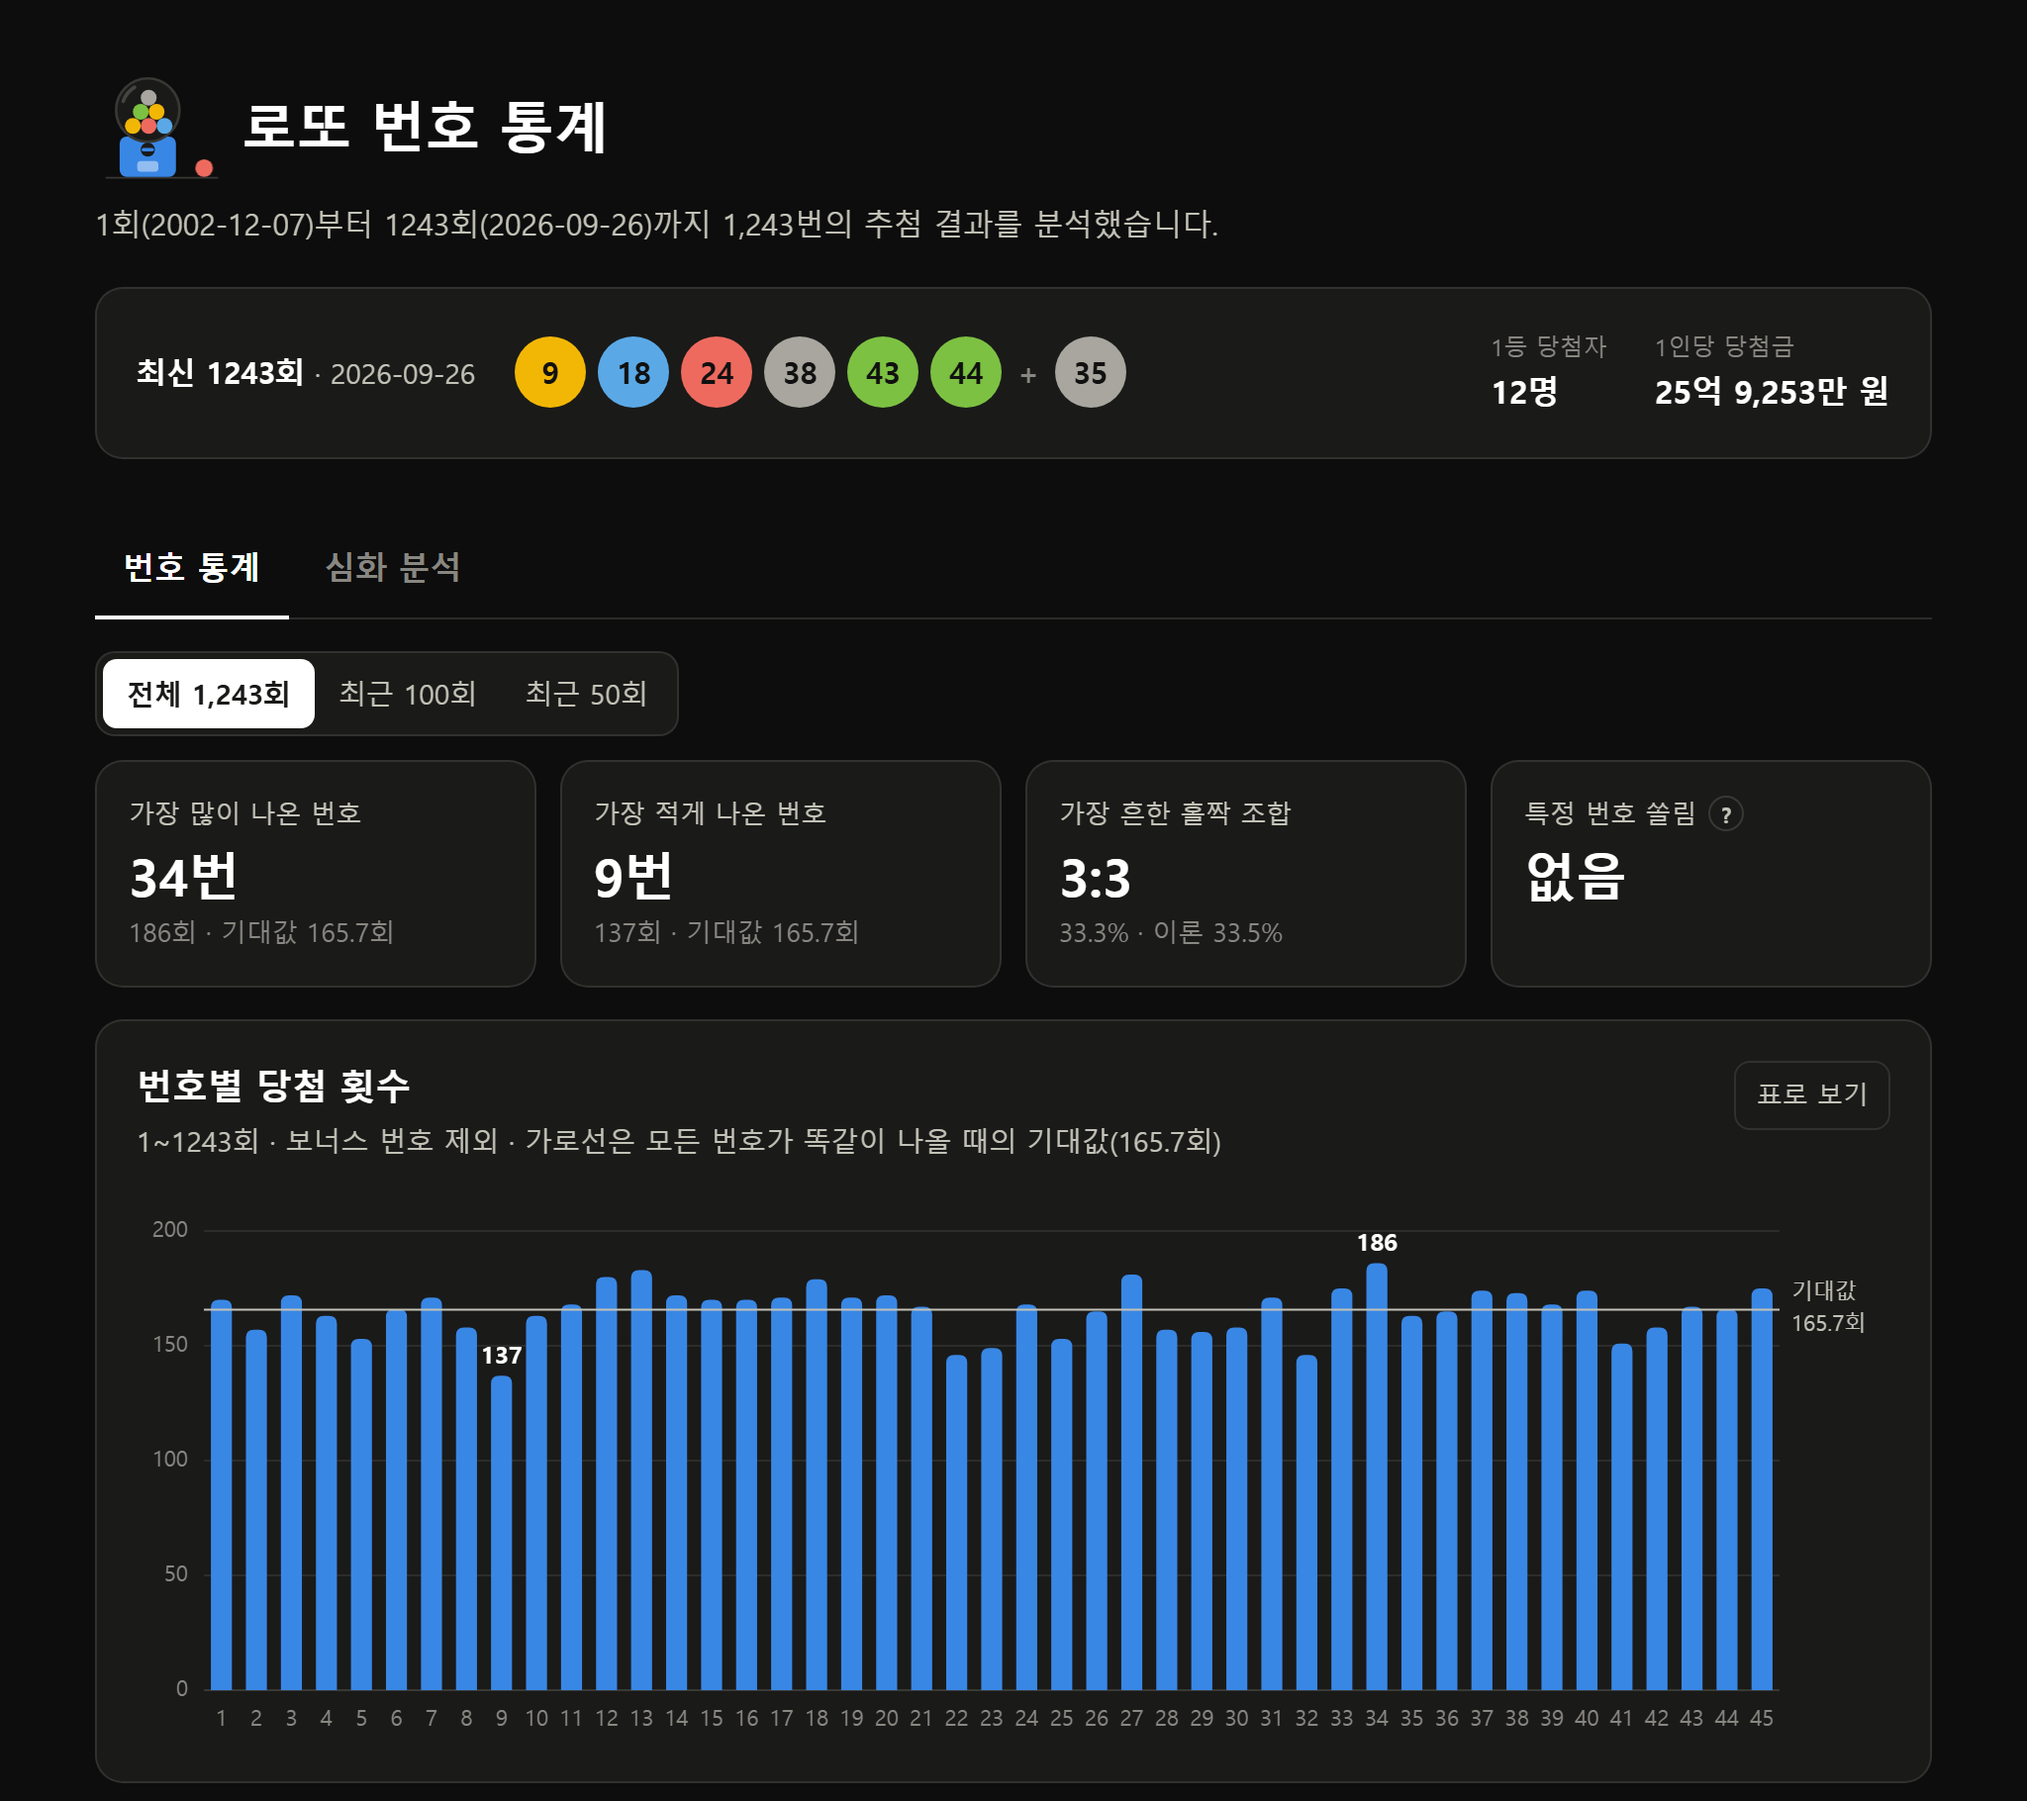
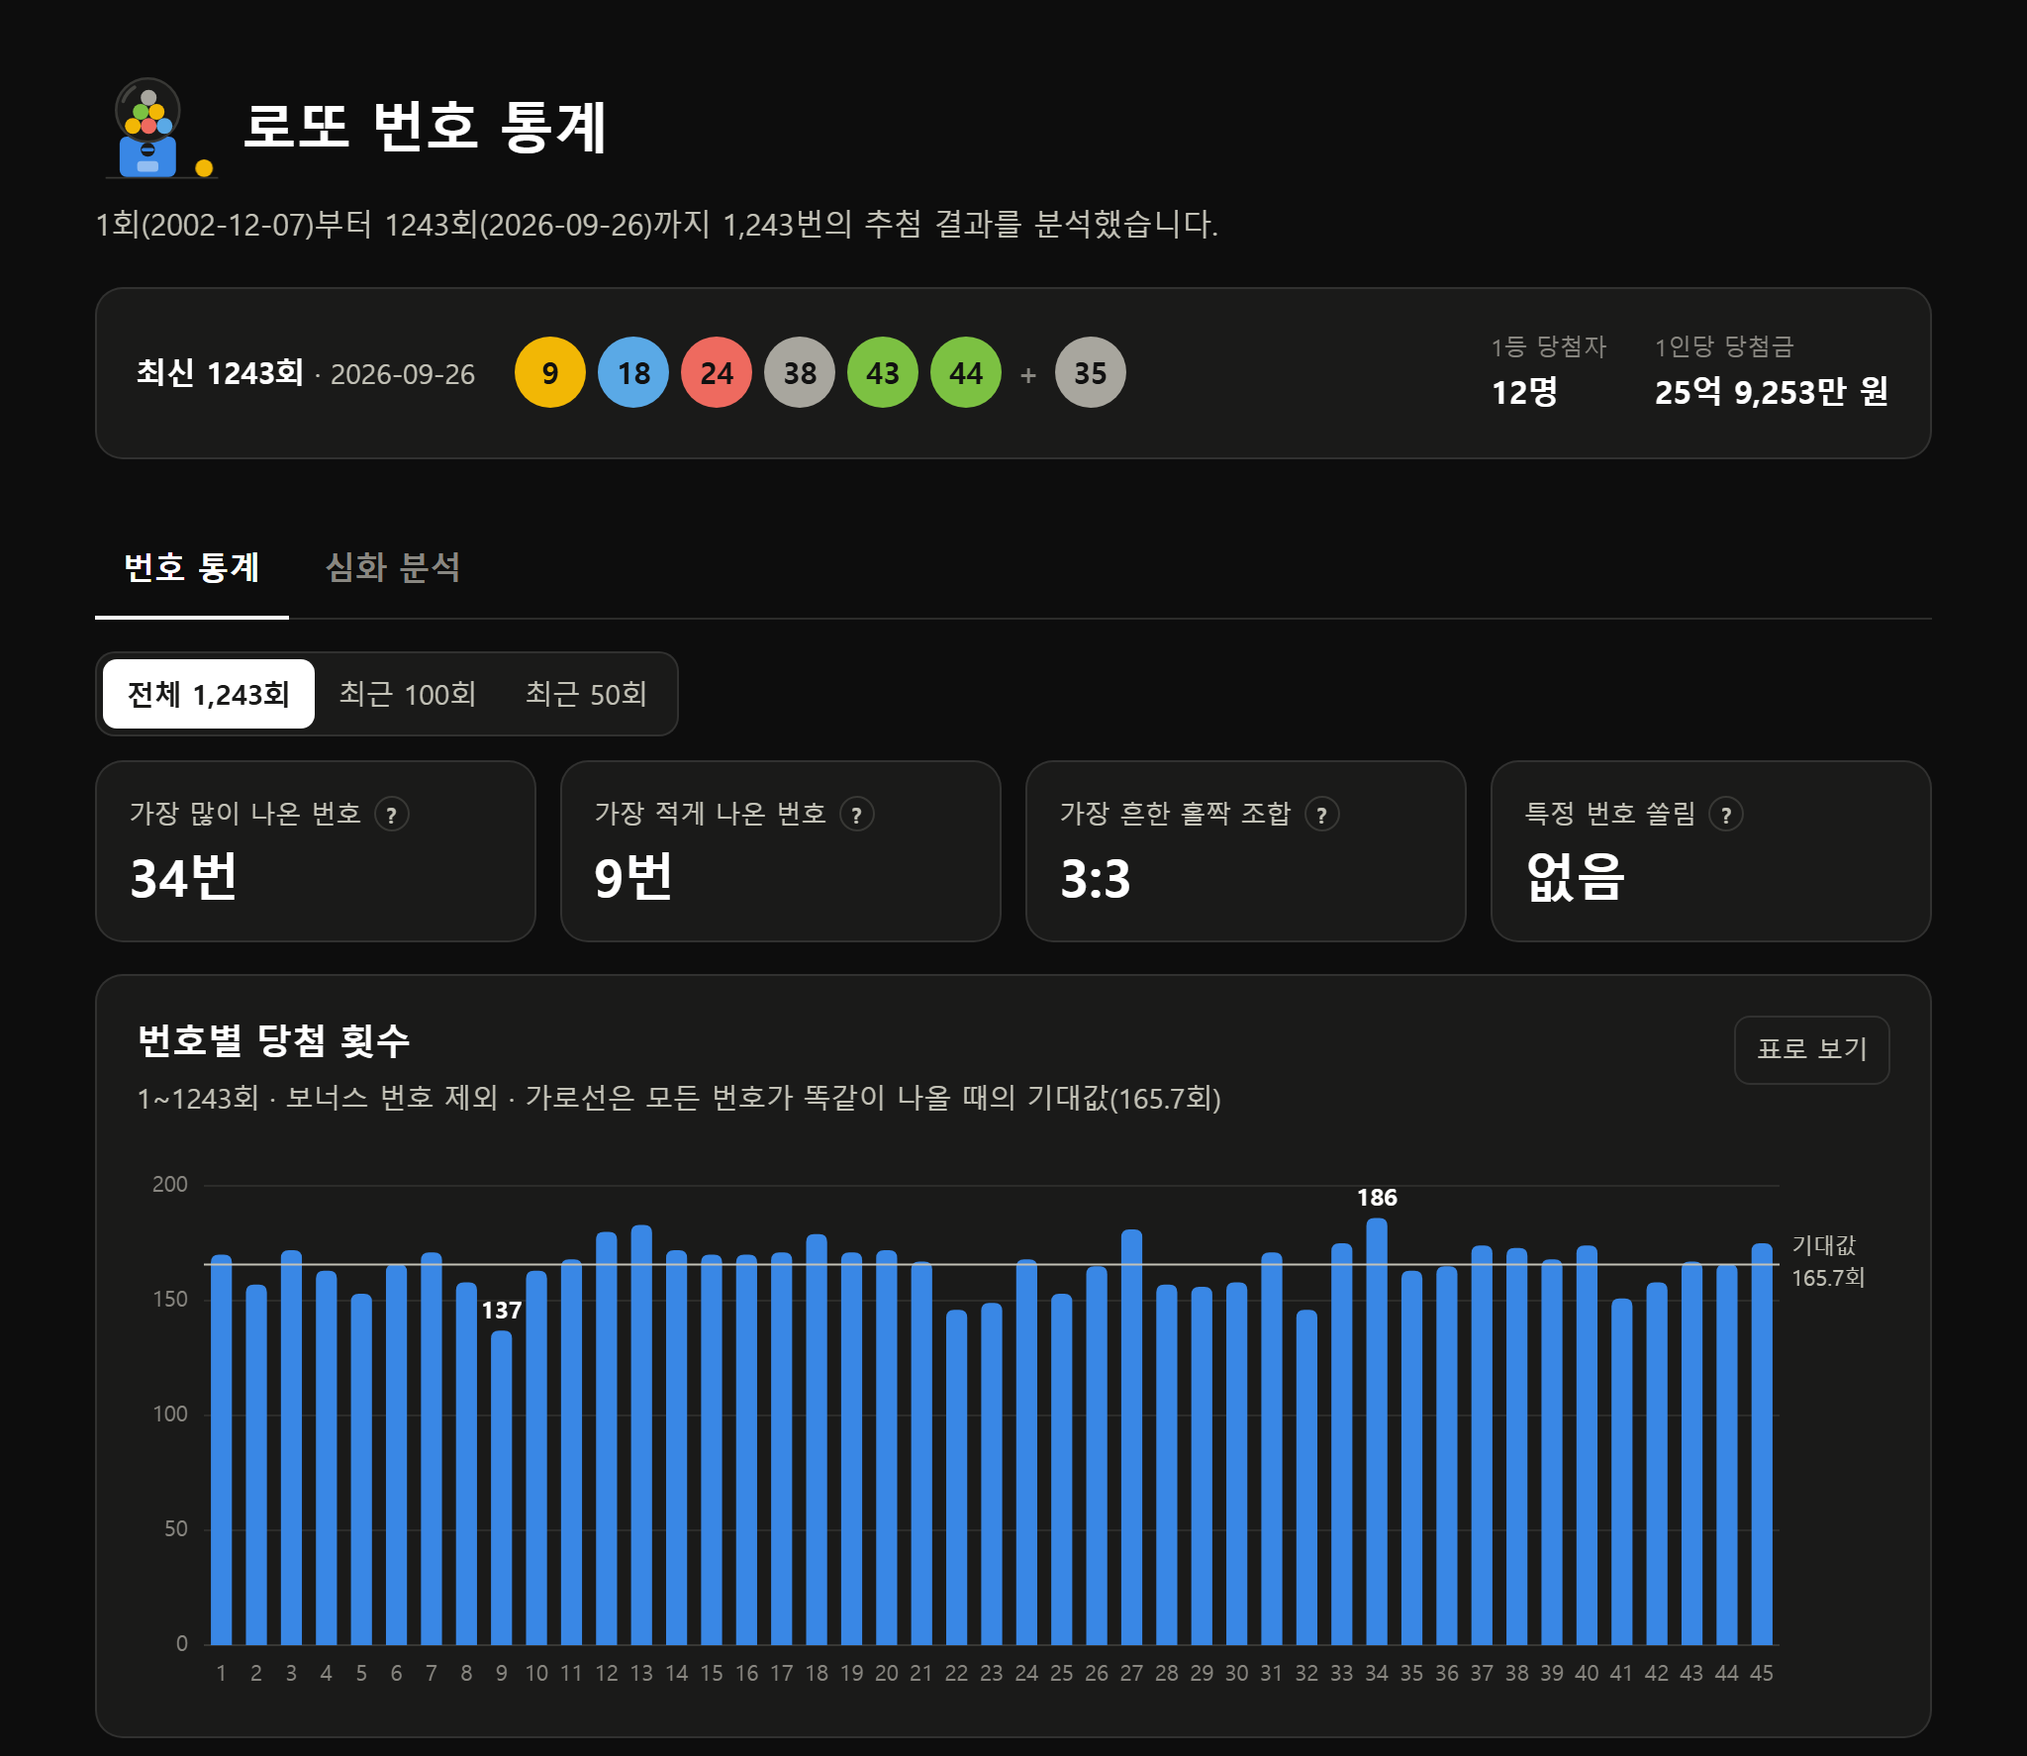
요약 타일 4개 모두 ? 도움말로 정리
- 타일에는 제목과 값만 남기고, 아래 보조 문구는 ? 설명으로 옮겨 자세히 풀어 씀
- 가장 많이/적게 나온 번호: 횟수, 기대값과의 차이(회·%), 2·3위 번호, 기대값 계산법
- 가장 흔한 홀짝 조합: 실제 횟수와 비율, 이론상 자주 나오는 순서, 실제와 이론 비교, 이론 확률 계산법
- 모든 설명은 선택한 기간에 맞춰 바뀜. README 스크린샷 갱신

diff --git a/docs/index.html b/docs/index.html
@@ -851,9 +851,9 @@
 
     // [제목, 값, 보조 문구, 도움말] — 도움말이 있으면 제목 옆에 ? 버튼을 단다
     const tiles = [
-      ['가장 많이 나온 번호', listOf(numbersWith(max)), `${fmt(max)}회 · 기대값 ${expected}회`],
-      ['가장 적게 나온 번호', listOf(numbersWith(min)), `${fmt(min)}회 · 기대값 ${expected}회`],
-      ['가장 흔한 홀짝 조합', `${k}:${6 - k}`, `${pct(w.oddEven[k])} · 이론 ${pct(DATA.oddEvenTheory[k])}`],
+      ['가장 많이 나온 번호', listOf(numbersWith(max)), null, freqHelp(w, 'most')],
+      ['가장 적게 나온 번호', listOf(numbersWith(min)), null, freqHelp(w, 'least')],
+      ['가장 흔한 홀짝 조합', `${k}:${6 - k}`, null, oddEvenHelp(w)],
       ['특정 번호 쏠림', random ? '없음' : '있음', null, chiSquareHelp(w)],
     ];
     const box = $('tiles');
@@ -867,7 +867,57 @@
     }
   }
 
-  // '특정 번호 쏠림'이 무슨 뜻인지 풀어 쓴 설명 (기간마다 기대값과 카이제곱 값이 다르다)
+  // ------------------------------------------------------------ 요약 타일 설명 (기간마다 값이 다르다)
+  // 가장 많이/적게 나온 번호. kind: 'most' 또는 'least'
+  function freqHelp(w, kind) {
+    const expected = expectedOf(w);
+    const [from, to] = rangeOf(w);
+    const word = kind === 'most' ? '많이' : '적게';
+    const order = w.freq.map((f, i) => [i + 1, f])
+      .sort((a, b) => (kind === 'most' ? b[1] - a[1] : a[1] - b[1]) || a[0] - b[0]);
+    const target = order[0][1];
+    const firsts = order.filter(([, f]) => f === target).map(([n]) => n);
+    const nexts = order.filter(([, f]) => f !== target).slice(0, 2);
+    const diff = target - expected;
+    return [
+      ['strong', `${fmt(target)}회 · 기대값 ${expected.toFixed(1)}회`],
+      ['p', `${from}~${to}회 동안 당첨번호(보너스 제외)로 가장 ${word} 나온 번호는 ${firsts.join(', ')}번이며, ${fmt(target)}회 나왔습니다.`],
+      ['p', `45개 번호가 모두 같은 확률로 뽑힌다면 번호마다 약 ${expected.toFixed(1)}회씩 나와야 합니다. ` +
+        `이보다 ${Math.abs(diff).toFixed(1)}회(${Math.abs((diff / expected) * 100).toFixed(1)}%) ${diff >= 0 ? '많습니다' : '적습니다'}.`],
+      ['p', `그다음으로 ${word} 나온 번호는 ${nexts.map(([n, f]) => `${n}번(${fmt(f)}회)`).join(', ')}입니다.`],
+      ['p', `번호가 45개나 되면 우연만으로도 기대값보다 꽤 ${word} 나오는 번호가 생깁니다. ` +
+        "이 차이가 우연으로 설명되는지는 '특정 번호 쏠림'에서 볼 수 있습니다."],
+      ['p.muted', `기대값 = 회차 수 ${fmt(w.draws)}회 × 당첨번호 6개 ÷ 번호 45개`],
+    ];
+  }
+
+  // 가장 흔한 홀짝 조합
+  function oddEvenHelp(w) {
+    const theory = DATA.oddEvenTheory;
+    const [from, to] = rangeOf(w);
+    const name = (i) => `${i}:${6 - i}`;
+    const k = w.oddEven.indexOf(Math.max(...w.oddEven));
+    const theoryOrder = theory.map((t, i) => [i, t]).sort((a, b) => b[1] - a[1]);
+    const gapPt = (w.oddEven[k] - theory[k]) * 100;
+    let compare;
+    if (k !== theoryOrder[0][0]) {
+      compare = `이 기간에는 이론과 달리 ${name(k)}가 가장 많았는데, 회차 수가 적을수록 이런 차이는 흔합니다.`;
+    } else if (Math.abs(gapPt) < 2) {
+      compare = '실제 결과도 이론 확률과 거의 같습니다.';
+    } else {
+      compare = `실제 비율이 이론보다 ${Math.abs(gapPt).toFixed(1)}%p ${gapPt > 0 ? '높은데' : '낮은데'}, 회차 수가 적을수록 이런 차이는 흔합니다.`;
+    }
+    return [
+      ['strong', `${pct(w.oddEven[k])} · 이론 ${pct(theory[k])}`],
+      ['p', `${from}~${to}회 중 ${fmt(Math.round(w.oddEven[k] * w.draws))}회(${pct(w.oddEven[k])})가 홀수 ${k}개·짝수 ${6 - k}개 조합이었습니다.`],
+      ['p', '1~45 중 홀수는 23개, 짝수는 22개입니다. 6개를 무작위로 뽑으면 이론상 ' +
+        `${theoryOrder.slice(0, 3).map(([i, t]) => `${name(i)}(${pct(t)})`).join(', ')} 순으로 자주 나옵니다.`],
+      ['p', compare],
+      ['p.muted', '이론 확률 = 홀수 23개 중 k개와 짝수 22개 중 (6−k)개를 고르는 경우의 수 ÷ 45개 중 6개를 고르는 경우의 수(8,145,060)'],
+    ];
+  }
+
+  // '특정 번호 쏠림'이 무슨 뜻인지 풀어 쓴 설명
   function chiSquareHelp(w) {
     const chi = w.chi2.toFixed(1);
     const crit = DATA.chi2Critical;

diff --git a/site_template.html b/site_template.html
@@ -851,9 +851,9 @@
 
     // [제목, 값, 보조 문구, 도움말] — 도움말이 있으면 제목 옆에 ? 버튼을 단다
     const tiles = [
-      ['가장 많이 나온 번호', listOf(numbersWith(max)), `${fmt(max)}회 · 기대값 ${expected}회`],
-      ['가장 적게 나온 번호', listOf(numbersWith(min)), `${fmt(min)}회 · 기대값 ${expected}회`],
-      ['가장 흔한 홀짝 조합', `${k}:${6 - k}`, `${pct(w.oddEven[k])} · 이론 ${pct(DATA.oddEvenTheory[k])}`],
+      ['가장 많이 나온 번호', listOf(numbersWith(max)), null, freqHelp(w, 'most')],
+      ['가장 적게 나온 번호', listOf(numbersWith(min)), null, freqHelp(w, 'least')],
+      ['가장 흔한 홀짝 조합', `${k}:${6 - k}`, null, oddEvenHelp(w)],
       ['특정 번호 쏠림', random ? '없음' : '있음', null, chiSquareHelp(w)],
     ];
     const box = $('tiles');
@@ -867,7 +867,57 @@
     }
   }
 
-  // '특정 번호 쏠림'이 무슨 뜻인지 풀어 쓴 설명 (기간마다 기대값과 카이제곱 값이 다르다)
+  // ------------------------------------------------------------ 요약 타일 설명 (기간마다 값이 다르다)
+  // 가장 많이/적게 나온 번호. kind: 'most' 또는 'least'
+  function freqHelp(w, kind) {
+    const expected = expectedOf(w);
+    const [from, to] = rangeOf(w);
+    const word = kind === 'most' ? '많이' : '적게';
+    const order = w.freq.map((f, i) => [i + 1, f])
+      .sort((a, b) => (kind === 'most' ? b[1] - a[1] : a[1] - b[1]) || a[0] - b[0]);
+    const target = order[0][1];
+    const firsts = order.filter(([, f]) => f === target).map(([n]) => n);
+    const nexts = order.filter(([, f]) => f !== target).slice(0, 2);
+    const diff = target - expected;
+    return [
+      ['strong', `${fmt(target)}회 · 기대값 ${expected.toFixed(1)}회`],
+      ['p', `${from}~${to}회 동안 당첨번호(보너스 제외)로 가장 ${word} 나온 번호는 ${firsts.join(', ')}번이며, ${fmt(target)}회 나왔습니다.`],
+      ['p', `45개 번호가 모두 같은 확률로 뽑힌다면 번호마다 약 ${expected.toFixed(1)}회씩 나와야 합니다. ` +
+        `이보다 ${Math.abs(diff).toFixed(1)}회(${Math.abs((diff / expected) * 100).toFixed(1)}%) ${diff >= 0 ? '많습니다' : '적습니다'}.`],
+      ['p', `그다음으로 ${word} 나온 번호는 ${nexts.map(([n, f]) => `${n}번(${fmt(f)}회)`).join(', ')}입니다.`],
+      ['p', `번호가 45개나 되면 우연만으로도 기대값보다 꽤 ${word} 나오는 번호가 생깁니다. ` +
+        "이 차이가 우연으로 설명되는지는 '특정 번호 쏠림'에서 볼 수 있습니다."],
+      ['p.muted', `기대값 = 회차 수 ${fmt(w.draws)}회 × 당첨번호 6개 ÷ 번호 45개`],
+    ];
+  }
+
+  // 가장 흔한 홀짝 조합
+  function oddEvenHelp(w) {
+    const theory = DATA.oddEvenTheory;
+    const [from, to] = rangeOf(w);
+    const name = (i) => `${i}:${6 - i}`;
+    const k = w.oddEven.indexOf(Math.max(...w.oddEven));
+    const theoryOrder = theory.map((t, i) => [i, t]).sort((a, b) => b[1] - a[1]);
+    const gapPt = (w.oddEven[k] - theory[k]) * 100;
+    let compare;
+    if (k !== theoryOrder[0][0]) {
+      compare = `이 기간에는 이론과 달리 ${name(k)}가 가장 많았는데, 회차 수가 적을수록 이런 차이는 흔합니다.`;
+    } else if (Math.abs(gapPt) < 2) {
+      compare = '실제 결과도 이론 확률과 거의 같습니다.';
+    } else {
+      compare = `실제 비율이 이론보다 ${Math.abs(gapPt).toFixed(1)}%p ${gapPt > 0 ? '높은데' : '낮은데'}, 회차 수가 적을수록 이런 차이는 흔합니다.`;
+    }
+    return [
+      ['strong', `${pct(w.oddEven[k])} · 이론 ${pct(theory[k])}`],
+      ['p', `${from}~${to}회 중 ${fmt(Math.round(w.oddEven[k] * w.draws))}회(${pct(w.oddEven[k])})가 홀수 ${k}개·짝수 ${6 - k}개 조합이었습니다.`],
+      ['p', '1~45 중 홀수는 23개, 짝수는 22개입니다. 6개를 무작위로 뽑으면 이론상 ' +
+        `${theoryOrder.slice(0, 3).map(([i, t]) => `${name(i)}(${pct(t)})`).join(', ')} 순으로 자주 나옵니다.`],
+      ['p', compare],
+      ['p.muted', '이론 확률 = 홀수 23개 중 k개와 짝수 22개 중 (6−k)개를 고르는 경우의 수 ÷ 45개 중 6개를 고르는 경우의 수(8,145,060)'],
+    ];
+  }
+
+  // '특정 번호 쏠림'이 무슨 뜻인지 풀어 쓴 설명
   function chiSquareHelp(w) {
     const chi = w.chi2.toFixed(1);
     const crit = DATA.chi2Critical;
